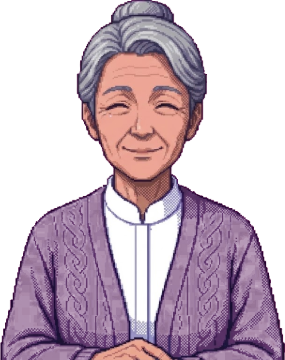
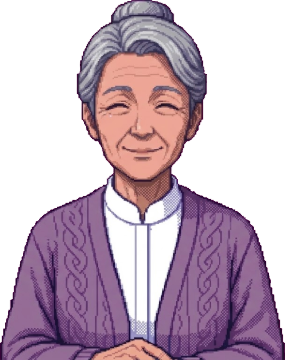
feat(jiken): storico dei dialoghi (📜) con faccina, nome e riascolto; fix: 木村さん più giovane della madre, ritratti della signora non più semi-trasparenti (elabora.cjs pieno)

diff --git a/src/routes/jiken/+page.svelte b/src/routes/jiken/+page.svelte
@@ -132,6 +132,41 @@
 	let mostraIt = $state(false); // traduzione della battuta corrente
 	let dividi = $state(false); // battuta corrente divisa in parole da toccare
 	let taccuino = $state(false);
+	// storico dei dialoghi della sessione: chi ha parlato, con che faccia, per riascoltare
+	interface Battuta {
+		chi: string | null; // personaggio; null = tu
+		tipo: 'dice' | 'io' | 'pensa' | 'narra';
+		sprite: string | null;
+		ja: string;
+		it: string;
+		giorno: number;
+		minuti: number;
+		luogo: LuogoId;
+	}
+	let storico = $state<Battuta[]>([]);
+	let storicoAperto = $state(false);
+	let storicoIt = $state<number[]>([]); // battute con la traduzione aperta
+	function registra(b: Omit<Battuta, 'giorno' | 'minuti' | 'luogo'>): void {
+		if (!stato) return;
+		const ultima = storico.at(-1);
+		if (ultima && ultima.ja === b.ja && ultima.chi === b.chi) return;
+		storico = [...storico, { ...b, giorno: stato.giorno, minuti: stato.minuti, luogo: stato.luogo }].slice(-300);
+	}
+	function riascoltaBattuta(b: Battuta): void {
+		hush();
+		if (b.tipo === 'dice') void voce(b.ja, PERSONAGGI[b.chi ?? '']?.voce ?? 'F', false);
+		else if (b.tipo === 'io') void voceMia(b.ja);
+		else if (b.tipo === 'pensa') void voceMia(b.ja, true);
+		else void speakSentenceJapaneseAsync(stripFuriganaNotation(testo(b.ja)), vocePersonaggio('F', imp));
+	}
+	function apriStorico(): void {
+		storicoIt = [];
+		storicoAperto = true;
+	}
+	// lo storico si apre in fondo, sull'ultima battuta
+	function inFondo(node: HTMLElement): void {
+		requestAnimationFrame(() => node.scrollIntoView({ block: 'end' }));
+	}
 	let infoLuogo = $state<LuogoId | null>(null);
 	let toast = $state('');
 	let toastTimer: ReturnType<typeof setTimeout> | null = null;
@@ -188,6 +223,7 @@
 	function comincia(): void {
 		salvaImp();
 		slot = 'main';
+		storico = [];
 		stato = nuovoStato(imp.nome, 'm1');
 		riprese = [];
 		salvaRipresa(stato);
@@ -196,6 +232,7 @@
 	}
 	function rigioca(id: string): void {
 		slot = 'rigioca';
+		storico = [];
 		stato = nuovoStato(imp.nome, id, MISSIONI[id]?.inizio);
 		salva();
 		entra('casa');
@@ -311,12 +348,17 @@
 				faccia = corrente.faccia ?? null;
 			}
 			if (corrente.taccuino) annota(corrente.dice, corrente.ja, corrente.it);
+			registra({ chi: corrente.dice, tipo: 'dice', sprite: c?.sprite ? `${c.sprite}${corrente.faccia ? `_${corrente.faccia}` : ''}` : null, ja: corrente.ja, it: corrente.it });
 			if (imp.autoVoce) void voce(corrente.ja, c?.voce ?? 'F');
 		} else if ('io' in corrente) {
+			registra({ chi: null, tipo: 'io', sprite: null, ja: corrente.io, it: corrente.it });
 			// la tua battuta con la tua voce, se non l'hai già detta tu al microfono
 			if (imp.autoVoce && !corrente.detto) void voceMia(corrente.io);
 		} else if ('pensa' in corrente) {
+			registra({ chi: null, tipo: 'pensa', sprite: null, ja: corrente.pensa, it: corrente.it });
 			if (imp.autoVoce) void voceMia(corrente.pensa, true);
+		} else if ('narra' in corrente) {
+			registra({ chi: null, tipo: 'narra', sprite: null, ja: corrente.narra, it: corrente.it });
 		} else if ('domanda' in corrente) {
 			if (imp.autoVoce) void voce(corrente.domanda.ja, 'F', false);
 		}
@@ -566,6 +608,7 @@
 			{#if stato && fase !== 'inizio'}
 				{@const aperti = stato.obiettivi.filter((o) => !o.fatto).length}
 				<button class="mini" class:on={obAperti} onclick={() => (obAperti = !obAperti)}>🎯 {aperti}</button>
+				<button class="mini" onclick={apriStorico} title={L(UI.storico)}>📜<span class="largo"> {L(UI.storico).replace('📜 ', '')}</span></button>
 				<button class="mini" onclick={() => (taccuino = true)} title={L(UI.ノート)}>📓<span class="largo"> {L(UI.ノート).replace('📓 ', '')}</span></button>
 			{/if}
 		</span>
@@ -898,6 +941,37 @@
 		</div>
 	{/if}
 
+	{#if storicoAperto}
+		<div class="overlay" role="presentation" onclick={(e) => { if (e.target === e.currentTarget) storicoAperto = false; }}>
+			<section class="panel taccuino storico">
+				<header><h2>{L(UI.storico)}</h2><button class="mini" onclick={() => (storicoAperto = false)}>✖</button></header>
+				<div class="paper">
+					{#each storico as b, i (i)}
+						{#if i === 0 || storico[i - 1]!.giorno !== b.giorno || storico[i - 1]!.luogo !== b.luogo}
+							<p class="small quando">{lingua === 'ja' ? dataJa(b.giorno) : dataIt(b.giorno)} {hhmm(b.minuti)} · {LUOGO[b.luogo].icona} {nomeLuogo(b.luogo)}</p>
+						{/if}
+						<div class="battuta" class:mia={b.tipo === 'io' || b.tipo === 'pensa'} class:narrata={b.tipo === 'narra'}>
+							<span class="faccina">
+								{#if b.sprite}<img src="{base}/giorno/ritratti/{b.sprite}-chiusa.png" alt="" />
+								{:else}{b.tipo === 'narra' ? '📖' : b.tipo === 'pensa' ? '💭' : b.chi ? '📞' : '🙂'}{/if}
+							</span>
+							<div class="testo">
+								<p class="chi">{b.tipo === 'narra' ? '' : b.chi ? stripFuriganaNotation(PERSONAGGI[b.chi]?.nome ?? b.chi) : imp.nome}</p>
+								<p class="ja">{b.tipo === 'io' ? '「' : b.tipo === 'pensa' ? '（' : ''}<Frase text={testo(b.ja)} />{b.tipo === 'io' ? '」' : b.tipo === 'pensa' ? '）' : ''}</p>
+								{#if storicoIt.includes(i) && b.it}<p class="it">{testo(b.it)}</p>{/if}
+							</div>
+							<span class="tasti">
+								<button class="mini" title="🔊" onclick={() => riascoltaBattuta(b)}>🔊</button>
+								{#if b.it && !storicoIt.includes(i)}<button class="mini" onclick={() => (storicoIt = [...storicoIt, i])}>🇮🇹</button>{/if}
+							</span>
+						</div>
+					{:else}<p class="small">{L(UI.nessuno)}</p>{/each}
+					<span use:inFondo></span>
+				</div>
+			</section>
+		</div>
+	{/if}
+
 	{#if taccuino && stato}
 		<div class="overlay" role="presentation" onclick={(e) => { if (e.target === e.currentTarget) taccuino = false; }}>
 			<section class="panel taccuino">
@@ -1081,6 +1155,20 @@
 	.taccuino .oggetto { cursor: default; }
 	.ob { margin: 0; font-size: 0.88rem; }
 	.ob.fatto { opacity: 0.6; text-decoration: line-through; }
+	.storico .paper { gap: 6px; }
+	.storico .quando { color: #fbf236; margin-top: 6px; }
+	.battuta { display: grid; grid-template-columns: 44px 1fr auto; gap: 8px; align-items: start; border-left: 3px solid #5b6ee1; padding: 2px 0 2px 6px; }
+	.battuta.mia { border-left-color: #99e550; }
+	.battuta.narrata { border-left-color: #6e6c8f; }
+	.battuta.narrata .ja { font-size: 0.92rem; opacity: 0.9; }
+	.faccina { width: 44px; height: 44px; overflow: hidden; background: #353360; border: 2px solid var(--px-line); display: grid; place-items: center; font-size: 1.3rem; }
+	/* il ritratto è a mezzo busto: si mostra solo la testa */
+	.faccina img { width: 170%; max-width: none; align-self: start; margin-top: -2px; image-rendering: pixelated; }
+	.battuta .testo { display: grid; gap: 1px; min-width: 0; }
+	.battuta .chi { margin: 0; font-size: 0.75rem; color: #fbf236; }
+	.battuta .ja { margin: 0; font-size: 1rem; line-height: 1.5; }
+	.battuta .it { margin: 0; }
+	.battuta .tasti { display: flex; gap: 4px; }
 	.appunto { border-left: 3px solid #5b6ee1; padding-left: 8px; display: grid; gap: 2px; }
 	.appunto p { margin: 0; }
 	.appunto .ja { font-size: 1rem; }

diff --git a/scripts/immagini/proc.html b/scripts/immagini/proc.html
@@ -1,4 +1,10 @@
 <body><script>
+// «pieno»: ritratto già scontornato ma con parti semi-trasparenti (vestiti viola o rosa
+// presi per fondo magenta). Il fondo vero è quello trasparente collegato ai bordi
+// (riempimento a partire dai pixel con alfa < 16 sul bordo); tutto il resto torna
+// opaco, salvo una fascia di 1 pixel lungo il contorno che tiene la sfumatura.
+async function pieno(src){const i=await load(src),W=i.naturalWidth,H=i.naturalHeight,c=cv(W,H),x=c.getContext('2d');x.drawImage(i,0,0);const d=x.getImageData(0,0,W,H),a=d.data;const fuori=new Uint8Array(W*H),st=[];const vuoto=q=>a[q*4+3]<16;for(let X=0;X<W;X++){st.push(X,(H-1)*W+X)}for(let Y=0;Y<H;Y++){st.push(Y*W,Y*W+W-1)}while(st.length){const q=st.pop();if(fuori[q]||!vuoto(q))continue;fuori[q]=1;const X=q%W,Y=(q/W)|0;if(X>0)st.push(q-1);if(X<W-1)st.push(q+1);if(Y>0)st.push(q-W);if(Y<H-1)st.push(q+W)}let n=0;for(let q=0;q<W*H;q++){if(fuori[q])continue;const X=q%W,Y=(q/W)|0;const bordo=(X>0&&fuori[q-1])||(X<W-1&&fuori[q+1])||(Y>0&&fuori[q-W])||(Y<H-1&&fuori[q+W]);if(!bordo&&a[q*4+3]<255){a[q*4+3]=255;n++}}x.putImageData(d,0,0);return{u:c.toDataURL('image/png'),n}}
+
 async function load(src){const i=new Image();i.src=src;await i.decode();return i}
 function cv(w,h){const c=document.createElement('canvas');c.width=w;c.height=h;return c}
 window.bg=async(src,w,h)=>{const i=await load(src);const ch=Math.round(i.width*h/w);const c=cv(w,h);const x=c.getContext('2d');x.imageSmoothingQuality='high';x.drawImage(i,0,(i.height-ch)/2,i.width,ch,0,0,w,h);return c.toDataURL('image/jpeg',0.86)}

diff --git a/src/lib/jiken/mondo.ts b/src/lib/jiken/mondo.ts
@@ -179,7 +179,7 @@ export const PERSONAGGI: Record<string, Personaggio> = {
 	hayashi: { nome: '林[はやし]さん（うけつけ）', sprite: 'receptionist', voce: 'F' },
 	hotelstaff: { nome: 'ホテルの 人', sprite: 'commesso', voce: 'M' },
 	commessa_sg: { nome: 'ゲームセンターの 人', sprite: 'commessa_sg', voce: 'F' },
-	kimura: { nome: '木村[きむら]さん', sprite: 'padrone', voce: 'M' },
+	kimura: { nome: '木村[きむら]さん', sprite: 'capo_uomo', voce: 'M' },
 	nonna: { nome: '木村[きむら]さんの お母さん', sprite: 'signora_anziana', voce: 'F' },
 	yamada: { nome: '山田[やまだ]さん（ABC）', sprite: 'passante', voce: 'M' },
 	mike: { nome: 'ミケ', sprite: 'mike', voce: 'F' },

diff --git a/src/lib/jiken/ui.ts b/src/lib/jiken/ui.ts
@@ -5,6 +5,7 @@ import type { Testo } from './tipi';
 export const UI = {
 	indietro: { ja: '← アドベンチャー', it: '← Avventure' },
 	ノート: { ja: '📓 ノート', it: '📓 Taccuino' },
+	storico: { ja: '📜 会話', it: '📜 Dialoghi' },
 	lingua: { ja: '🌐 日本語', it: '🌐 Italiano' },
 	titolo: { ja: 'さくら町の 毎日', it: 'La vita a さくら町' },
 	intro: {

diff --git a/docs/giallo-guida.md b/docs/giallo-guida.md
@@ -52,6 +52,9 @@ tutta la storia della chat. Gli altri documenti:
   altri in kana, o con lettura `漢字[かな]` per nomi di persona e di luogo. Il test
   dei kanji controlla mondo, missioni e interfaccia. `{nome}` = nome del
   giocatore; `{o}` nei testi italiani = o/a secondo uomo/donna.
+- **Storico dei dialoghi** (📜 nella barra in alto): tutte le battute della sessione
+  (`dice`, `io`, `pensa`, `narra`) con faccina del ritratto, nome, 🔊 per riascoltare e
+  🇮🇹; non si salva (riparte vuoto ricaricando la pagina).
 - **Salvataggi** (`localStorage`): `renkei_jiken` (partita principale),
   `renkei_jiken_rigioca` (rigioco di una missione finita), `renkei_jiken_riprese`
   (copia a ogni risveglio), `renkei_jiken_imp` (impostazioni, missioni completate).
@@ -91,6 +94,9 @@ Controllo: `https://offtherailz.github.io/renkei/dev/_app/version.json`. A volte
 deploy di GitHub Pages va in timeout: si rifà la build e si ripubblica.
 
 ## 4. La storia finora
+
+Ritratti: 木村さん usa `capo_uomo` (sui 55 anni; il vecchio `padrone` sembrava
+coetaneo della madre). Un ritratto suo dedicato si può generare più avanti.
 
 Personaggi fissi: famiglia 吉田 (mamma, papà), 森ぶちょう (capo), 鈴木 e 田中
 (colleghi), 中村 (ispettore), 高橋くん (liceale, aiuta alla scuola serale),
@@ -337,6 +343,7 @@ node scripts/immagini/elabora.cjs ritratto ingresso uscita-chiusa.png   # → st
 node scripts/immagini/elabora.cjs ritratto ingresso uscita.png bordi     # se capelli/vestiti hanno rosa o viola
 node scripts/immagini/elabora.cjs affiancata img.jpg sx.png dx.png        # chiusa|aperta nella stessa immagine
 node scripts/immagini/elabora.cjs bocca    x-chiusa.png aperta.jpg x-parla.png [0.4 0.68]  # fascia della bocca se inquadrato da vicino
+node scripts/immagini/elabora.cjs pieno    ritratto.png [uscita.png]                 # vestiti viola/rosa rimasti semi-trasparenti → opachi
 node scripts/immagini/elabora.cjs oggetti  griglia.jpg 4 4 static/giorno/oggetti id1 id2 …
 ```
 
